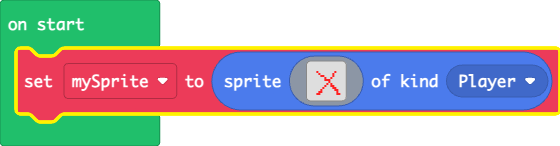
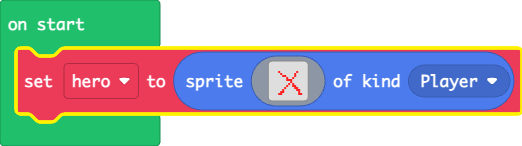
Update main.blocks, main.ts

diff --git a/main.ts b/main.ts
@@ -1,4 +1,4 @@
-let mySprite = sprites.create(img`
+let hero = sprites.create(img`
     . . . . . . . . . . . . . . . . 
     . . . . . . . . . . . . . . . . 
     . . . . . . . . . . . . . . . . 
